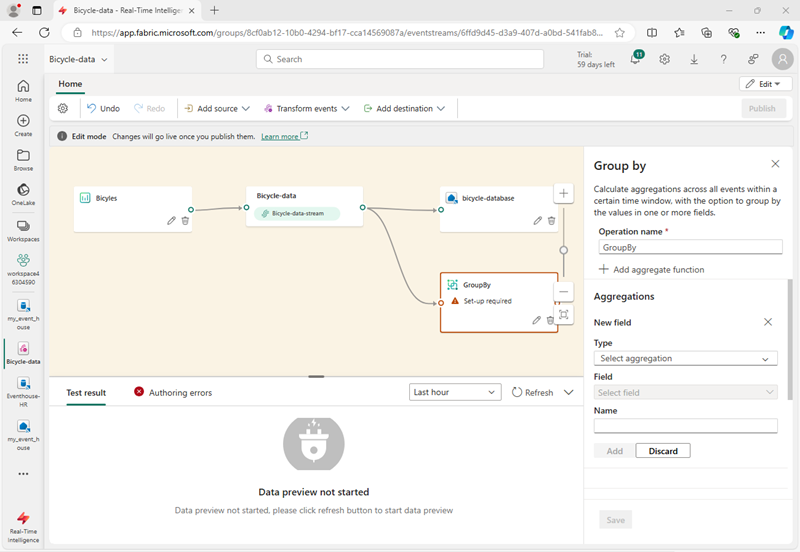
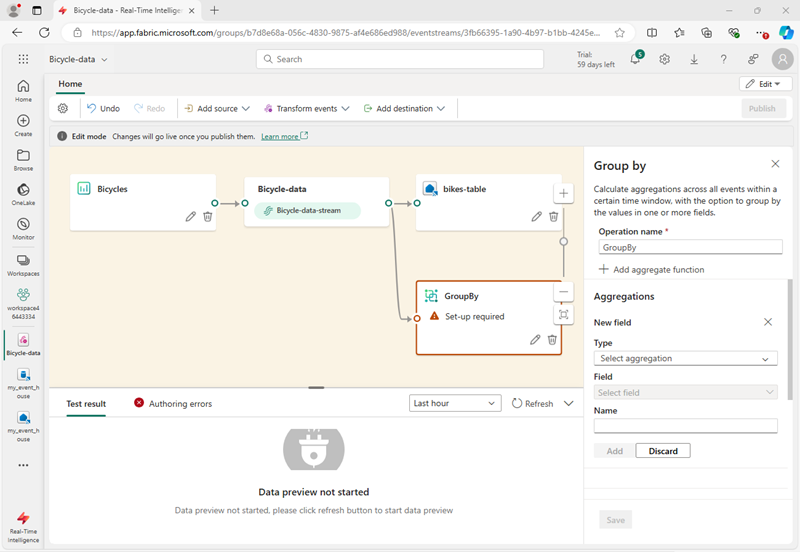
Updated eventstream lab

diff --git a/Instructions/Labs/09-real-time-analytics-eventstream.md b/Instructions/Labs/09-real-time-analytics-eventstream.md
@@ -1,57 +1,53 @@
 ---
 lab:
-    title: 'Get started with Eventstream in Microsoft Fabric'
-    module: 'Get started with Eventstream in Microsoft Fabric'
+    title: 'Ingest real-time data with Eventstream in Microsoft Fabric'
+    module: 'Ingest real-time data with Eventstream in Microsoft Fabric'
 ---
-# Get started with Eventstream in Microsoft Fabric
+# Ingest real-time data with Eventstream in Microsoft Fabric
 
-Eventstream is a feature in Microsoft Fabric that captures, transforms, and routes real-time events to various destinations with a no-code experience. You can add event data sources, routing destinations, and the event processor, when the transformation is needed, to the eventstream. Microsoft Fabric's EventStore is a monitoring option that maintains events from the cluster and provides a way to understand the state of your cluster or workload at a given point in time. The EventStore service can be queried for events that are available for each entity and entity type in your cluster. This means you can query for events on different levels, such as clusters, nodes, applications, services, partitions, and partition replicas. The EventStore service also has the ability to correlate events in your cluster. By looking at events that were written at the same time from different entities that may have impacted each other, the EventStore service can link these events to help with identifying causes for activities in your cluster. Another option for monitoring and diagnostics of Microsoft Fabric clusters is aggregating and collecting events using EventFlow.
+Eventstream is a feature in Microsoft Fabric that captures, transforms, and routes real-time events to various destinations. You can add event data sources, destinations, and transformations to the eventstream.
+
+In this exercise, you'll ingest data from a sample data source that emits a stream of events related to observations of bicycle collection points in a bike-share system in which people can rent bikes within a city.
 
 This lab takes approximately **30** minutes to complete.
 
-> **Note**: You need a [Microsoft Fabric trial](https://learn.microsoft.com/fabric/get-started/fabric-trial) to complete this exercise.
+> **Note**: You need a [Microsoft Fabric tenant](https://learn.microsoft.com/fabric/get-started/fabric-trial) to complete this exercise.
 
 ## Create a workspace
 
-Before working with data in Fabric, create a workspace with the Fabric trial enabled.
+Before working with data in Fabric, you need to create a workspace with the Fabric capacity enabled.
 
-1. Sign into the [Microsoft Fabric home page](https://app.fabric.microsoft.com/home?experience=fabric) at `https://app.fabric.microsoft.com/home?experience=fabric` and select **Power BI**.
-2. In the menu bar on the left, select **Workspaces** (the icon looks similar to &#128455;).
-3. Create a new workspace with a name of your choice, selecting a licensing mode that includes Fabric capacity (*Trial*, *Premium*, or *Fabric*).
-4. When your new workspace opens, it should be empty, as shown here:
+1. On the [Microsoft Fabric home page](https://app.fabric.microsoft.com/home?experience=fabric) at `https://app.fabric.microsoft.com/home?experience=fabric`, select **Real-Time Intelligence**.
+1. In the menu bar on the left, select **Workspaces** (the icon looks similar to &#128455;).
+1. Create a new workspace with a name of your choice, selecting a licensing mode that includes Fabric capacity (*Trial*, *Premium*, or *Fabric*).
+1. When your new workspace opens, it should be empty.
 
-   ![Screenshot of an empty workspace in Power BI.](./Images/new-workspace.png)
-5. At the bottom left of the Power BI portal, select the **Power BI** icon and switch to the **Real-Time Intelligence** experience.
+    ![Screenshot of an empty workspace in Fabric.](./Images/new-workspace.png)
 
-## Create a Real-Time Intelligence Eventhouse
+## Create an eventhouse
 
-1. In the Real-Time Intelligence home page in Microsoft Fabric,create a new **Eventhouse**, giving it a unique name of your choice.
+Now that you have a workspace, you can start creating the Fabric items you'll need for your real-time intelligence solution. we'll start by creating an eventhouse.
+
+1. On the menu bar on the left, select **Home**; and then in the Real-Time Intelligence home page, create a new **Eventhouse**, giving it a unique name of your choice.
 1. Close any tips or prompts that are displayed until you see your new empty eventhouse.
 
     ![Screenshot of a new eventhouse](./Images/create-eventhouse.png)
 
-## Create a KQL Database
+1. In the pane on the left, note that your eventhouse contains a KQL database with the same name as the eventhouse.
+1. Select the KQL database to view it.
 
-1. Within the **Real-Time Intelligence Eventhouse** Dashboard, select the **KQL Database +** box.
-1. You'll have the option to create a **New database (default)** or create a **New shortcut database (follower)**.
-
-    >**Note:**
-    > The follower database feature allows you to attach a database located in a different cluster to your Azure Data Explorer cluster. The follower database
-    is attached in read-only mode, making it possible to view the data and run queries on the data that was ingested into the leader database . The follower database synchronizes changes in the leader databases. Because of the synchronization, there's a data lag of a few seconds to a few minutes in data availability. The length of the time lag depends on the overall size of the leader database metadata. The leader and follower databases use the same storage account to fetch the data. The storage is owned by the leader database. The follower database views the data without needing to ingest it. Since the attached database is a read-only database, the data, tables, and policies in the database can't be modified except for
-    caching policy, principals, and permissions.
-
-1. Create a new database and name it `Eventhouse-DB`.
+    Currently there are no tables in the database. In the rest of this exercise you'll use an eventstream to load data from a real-time source into a table.
 
 ## Create an Eventstream
 
 1. In the main page of your KQL database, select **Get data**.
-2. For the data source, select **Eventstream** > **New eventstream**. Name the Eventstream `bicycle-data`.
+2. For the data source, select **Eventstream** > **New eventstream**. Name the Eventstream `Bicycle-data`.
 
     The creation of your new event stream in the workspace will be completed in just a few moments. Once established, you will be automatically redirected to the primary editor, ready to begin integrating sources into your event stream.
 
     ![Screenshot of a new eventstream.](./Images//name-eventstream.png)
 
-## Establish an eventstream source
+## Add an source
 
 1. In the Eventstream canvas, select **Use sample data**.
 2. Name the source `Bicycles`, and select the **Bicycles** sample data.
@@ -62,33 +58,43 @@ Before working with data in Fabric, create a workspace with the Fabric trial ena
 
 ## Add a destination
 
-1. In the **Transform events or add destination** drop-down list, select **Eventhouse**.
+1. In the **Transform events or add destination** drop-down list, in the **Destinations** section, select **Eventhouse**.
 1. In the **Eventhouse** pane, configure the following setup options.
    - **Data ingestion mode:**: Event processing before ingestion
-   - **Destination name:** `Bicycle-database`
+   - **Destination name:** `bikes-table`
    - **Workspace:** *Select the workspace you created at the beginning of this exercise*
    - **Eventhouse**: *Select your eventhouse*
-   - **KQL database:** Eventhouse-DB
-   - **Destination table:** Create a new table named `bike-count`
+   - **KQL database:** *Select your KQL database*
+   - **Destination table:** Create a new table named `bikes`
    - **Input data format:** JSON
 
-   ![KQL Database eventstream with ingestion modes](./Images/kql-database-event-processing-before-ingestion.png)
+   ![Eventstream destination settings.](./Images/kql-database-event-processing-before-ingestion.png)
 
 1. In the **Eventhouse** pane, select **Save**. 
 1. On the toolbar, select **Publish**.
-1. Wait a minute or so for the data destination to become active.
+1. Wait a minute or so for the data destination to become active. Then select the **bikes-table** node in the design canvas and view the **Data preview** pane underneath to see the latest data that has been ingested:
 
-## View captured data
+   ![A destination table in an eventstream.](./Images/stream-data-preview.png)
 
-The eventstream you have created takes data from the sample source of bicycle data and loads it into the database in your  eventhouse. You can view the captured data by querying the table in the database.
+1. Wait a few minutes and then use the **Refresh** button to refresh the **Data preview** pane. The stream is running perpetually, so new data may have been added to the table.
+1. Beneath the eventstream design canvas, view the **Data insights** tab to see details of the data events that have been captured.
 
-1. In the menu bar on the left, select your **Eventhouse-DB** database.
-1. In the **...** menu for the **Eventhouse-DB** KQL database, select **Query data**.
-1. In the query pane, modify the first example query as shown here:
+## Query captured data
+
+The eventstream you have created takes data from the sample source of bicycle data and loads it into the database in your eventhouse. You can query the captured data by querying the table in the database.
+
+1. In the menu bar on the left, select your KQL database.
+1. On the **database** tab, in the toolbar for your KQL database, use the **Refresh** button to refresh the view until you see the **bikes** table under the database. Then select the **Bikes** table.
+
+   ![A table in a KQL database.](./Images/kql-table.png)
+
+1. In the **...** menu for the **bikes** table**, select **Query table** > **Records ingested in the last 24 hours**.
+1. In the query pane, note that the following query has been generated and run, with the results shown beneath:
 
     ```kql
-    ['bike-count']
-    | take 100
+    // See the most recent data - records ingested in the last 24 hours.
+    bikes
+    | where ingestion_time() between (now(-1d) .. now())
     ```
 
 1. Select the query code and run it to see 100 rows of data from the table.
@@ -101,7 +107,6 @@ The data you've captured is unaltered from the source. In many scenarios, you ma
 
 1. In the menu bar on the left, select the **Bicycle-data** eventstream.
 1. On the toolbar, select **Edit** to edit the eventstream.
-
 1. In the **Transform events** menu, select **Group by** to add a new **Group by** node to the eventstream.
 1. Drag a connection from the output of the **Bicycle-data** node to the input of the new **Group by** node Then use the *pencil* icon in the **Group by** node to edit it.
 
@@ -110,7 +115,7 @@ The data you've captured is unaltered from the source. In many scenarios, you ma
 1. Configure out the properties of the **Group by** settings section:
     - **Operation name:** GroupByStreet
     - **Aggregate type:** *Select* Sum
-    - **Field:** *select* No_Bikes. *Then select **Add** to create the function* SUM_No_Bikes
+    - **Field:** *select* No_Bikes. *Then select **Add** to create the function* SUM of No_Bikes
     - **Group aggregations by (optional):** Street
     - **Time window**: Tumbling
     - **Duration**: 5 seconds
@@ -118,42 +123,56 @@ The data you've captured is unaltered from the source. In many scenarios, you ma
 
     > **Note**: This configuration will cause the eventstream to calculate the total number of bicycles in each street every 5 seconds.
       
-1. Save the configuration and return to the eventstream canvas, where an error is indicated (because you need to store the output from the group by transformation somewhere!).
+1. Save the configuration and return to the eventstream canvas, where an error is indicated (because you need to store the output from the transformation somewhere!).
 
 1. Use the **+** icon to the right of the **GroupByStreet** node to add a new **Eventhouse** node.
 1. Configure the new eventhouse node with the following options:
    - **Data ingestion mode:**: Event processing before ingestion
-   - **Destination name:** `Bicycle-database`
+   - **Destination name:** `bikes-by-street-table`
    - **Workspace:** *Select the workspace you created at the beginning of this exercise*
-   - **Eventhouse**: *Select your event house*
-   - **KQL database:** Eventhouse-DB
+   - **Eventhouse**: *Select your eventhouse*
+   - **KQL database:** *Select your KQL database*
    - **Destination table:** Create a new table named `bikes-by-street`
    - **Input data format:** JSON
 
-   ![Screenshot of a table for grouped data.](./Images/group-by-table.png)
+    ![Screenshot of a table for grouped data.](./Images/group-by-table.png)
 
 1. In the **Eventhouse** pane, select **Save**. 
 1. On the toolbar, select **Publish**.
 1. Wait a minute or so for the changes to become active.
+1. In the design canvas, select the **bikes-by-street-table** node, and view the **data preview** pane beneath the canvas.
+
+    ![Screenshot of a table for grouped data.](./Images/stream-table-with-windows.png)
+
+    Note that the trasformed data includes the grouping field you specified (**Street**), the aggregation you specified (**SEUM_no_Bikes**), and a timestamp field indicating the end of the 5 second tumbling window in which the event occurred (**Window_End_Time**).
 
 ## View the transformed data
 
 Now you can view the bicycle data that has been transformed and loaded into a table by your eventstream
 
-1. In the menu bar on the left, select your **Eventhouse-DB** database.
-1. In the **...** menu for the **Eventhouse-DB** KQL database, select **Query data**.
-1. In the query pane, modify an example query as shown here:
+1. In the menu bar on the left, select your KQL database.
+1. 1. On the **database** tab, in the toolbar for your KQL database, use the **Refresh** button to refresh the view until you see the **bikes-by-street** table under the database.
+1. In the **...** menu for the **bikes-by-street** table, select **Query data** > **Show any 100 records**.
+1. In the query pane, note that the following query is generated and run:
 
     ```kql
     ['bikes-by-street']
     | take 100
     ```
 
-1. Select the query code and run it to see the first 100 rows in the table.
+1. Modify the KQL query to retrieve the total number of bikes per street within each 5 second window:
 
-    ![Screenshot of a KQL query.](./Images/kql-group-query.png)
+    ```kql
+    ['bikes-by-street']
+    | summarize TotalBikes = sum(tolong(SUM_No_Bikes)) by Window_End_Time, Street
+    | sort by Window_End_Time desc , Street asc
+    ```
 
-    > **Tip**: You can also query the table by using SQL syntax. For example, try the query `SELECT TOP 100 * FROM bikes-by-street`.
+1. Select the modified query and run it.
+
+    The results show the number of bikes observed in each street within each 5 second time period.
+
+    ![Screenshot of a query returning grouped data.](./Images/kql-group-query.png)
 
 ## Clean up resources
 
